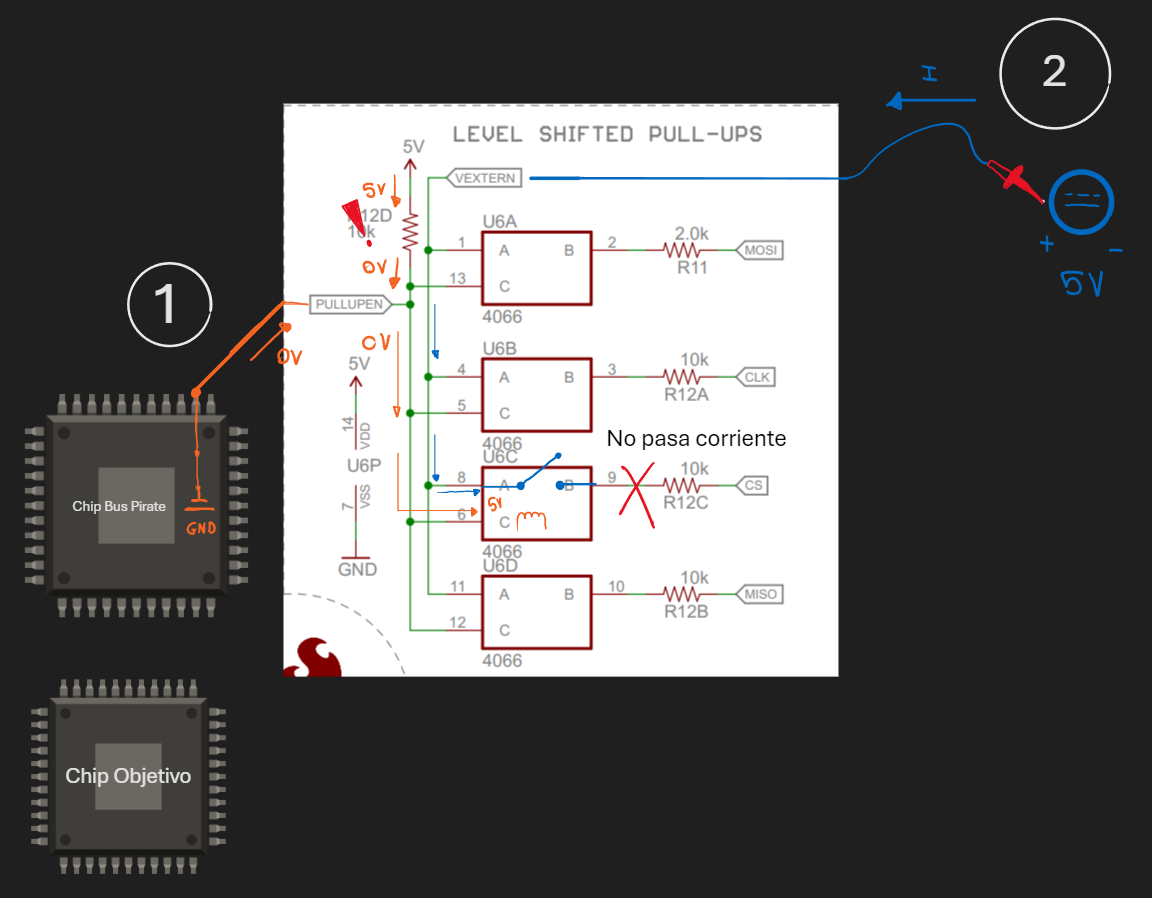
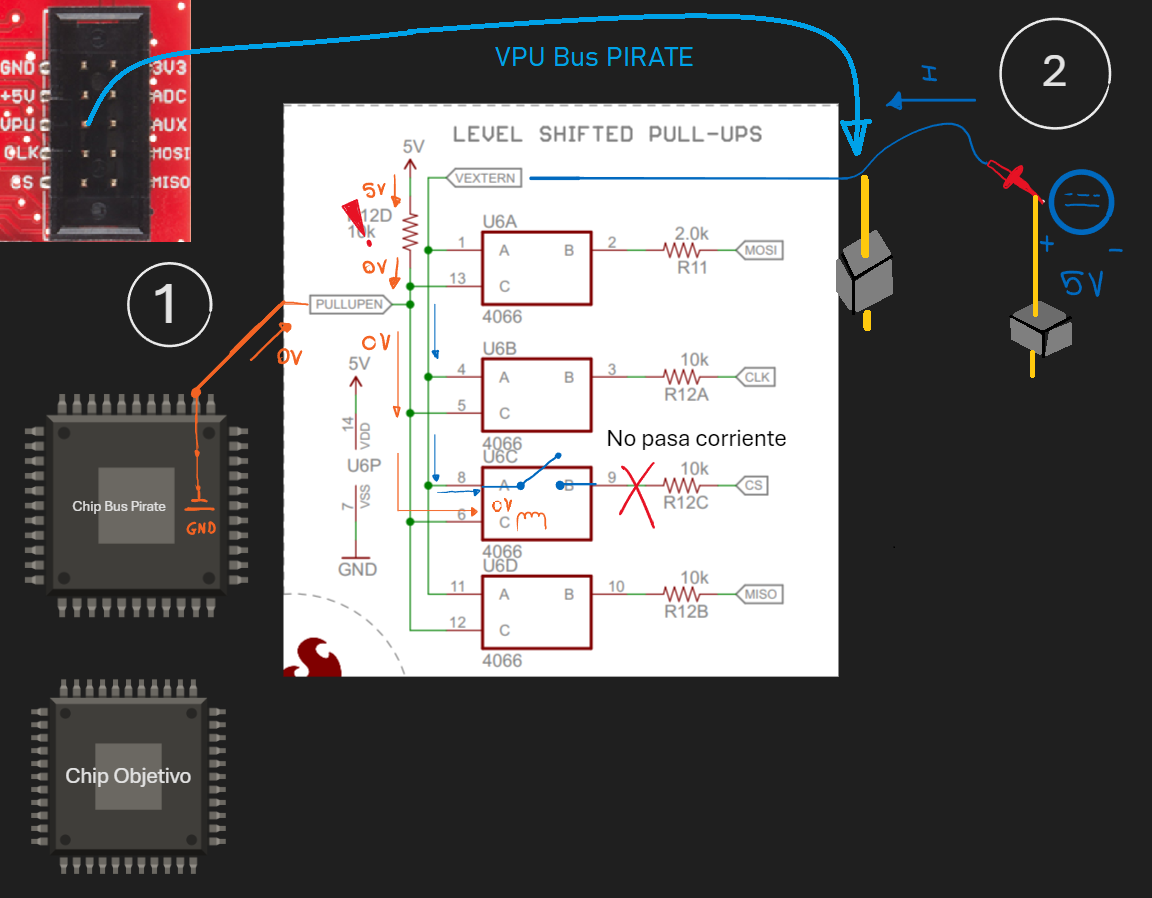
some fixes by Fran A W & Dreg

diff --git a/README.md b/README.md
@@ -872,7 +872,7 @@ Ahora veamos como sería el circuito y sus conexiones con el Chip Target y el Ch
 
 <img src="assets\Archivos_PullUpPullDown\Dar0.png" alt="pullUpBusPirate" width="700"/>
 
-<span style="color:#efc72e">3. El cable amarillo representa a los canales de la PCB del BusPirate que conectan el Pull-Up con el pin de Clock Select (CS). En este caso, el Chip ha conectado el pin directamente a GND, lo que da un voltaje nulo (0V) en toda la linea.</span>
+<span style="color:#efc72e">3. El cable amarillo representa a los canales de la PCB del BusPirate que conectan el Pull-Up con el pin de Chip Select (CS). En este caso, el Chip ha conectado el pin directamente a GND, lo que da un voltaje nulo (0V) en toda la linea.</span>
 
 
 <span style="color:#6da707">4. El cable verde es la pinza que colocaremos en la pata CS del BusPirate hasta el pin CS del Chip Objetivo. En la imagen de arriba, el pin está conectado a la linea amarilla, por la que no pasa corriente. Como consecuencia, recibe un 0.</span>
